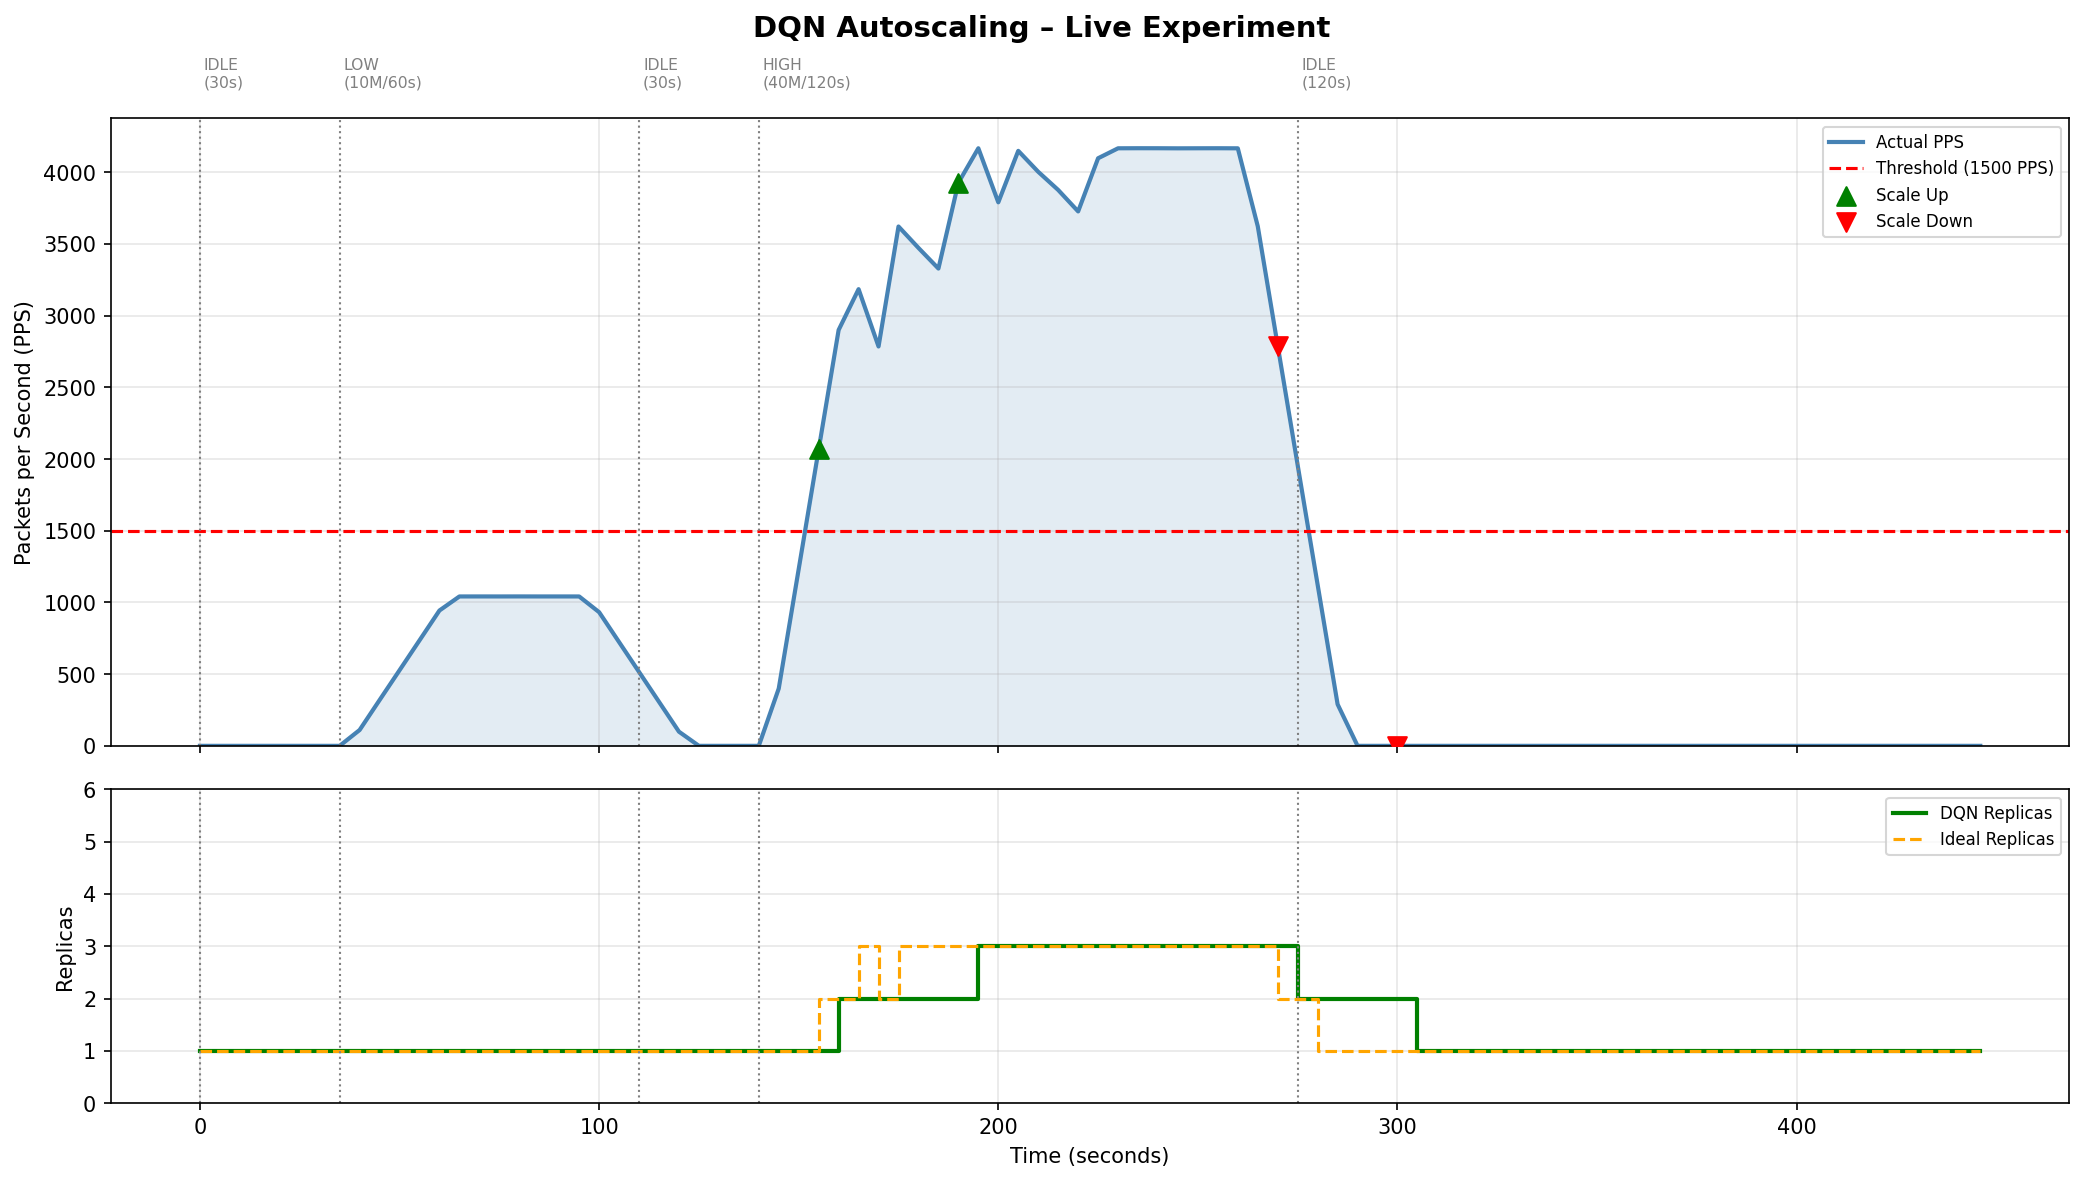
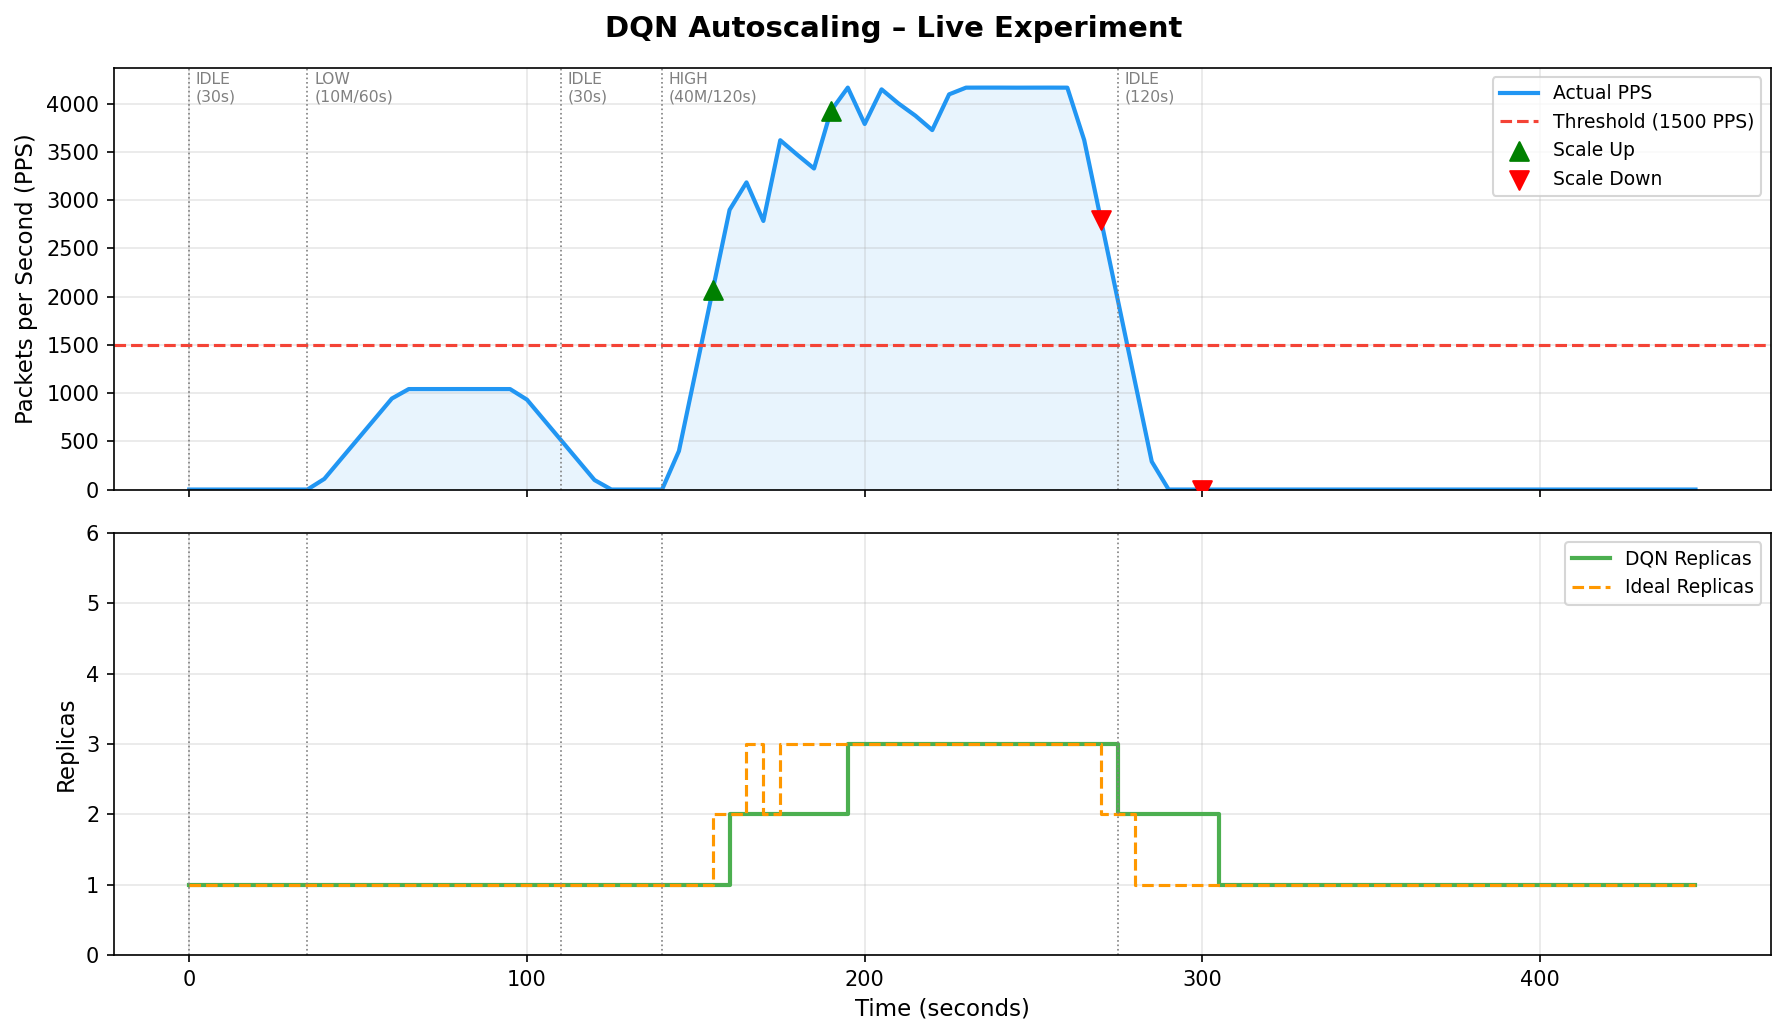
Update project files

diff --git a/scripts/plots/combined_response_time_plot.py b/scripts/plots/combined_response_time_plot.py
@@ -1,0 +1,136 @@
+#!/usr/bin/env python3
+"""
+Combined Estimated Response Time — Autoscaling Comparison
+Plots HPA, ARIMA, DQN actual response time vs No Autoscaling baseline (1 pod fixed)
+using M/M/c queuing model.
+"""
+
+import pandas as pd
+import matplotlib.pyplot as plt
+import matplotlib.ticker as ticker
+import glob
+import math
+import os
+
+# ── Config ────────────────────────────────────────────────────────────────────
+MU        = 1500
+MAX_RT_MS = 50.0
+BASE_RT   = (1 / MU) * 1000
+
+# ── Phase lines (HPA as reference) ───────────────────────────────────────────
+PHASES = [
+    (0,   "IDLE\n(30s)"),
+    (30,  "LOW\n(10M/60s)"),
+    (90,  "IDLE\n(30s)"),
+    (120, "HIGH\n(40M/120s)"),
+    (240, "IDLE\n(120s)"),
+]
+
+# ── Erlang-C ──────────────────────────────────────────────────────────────────
+def erlang_c(c, lam, mu):
+    rho = lam / (c * mu)
+    if rho >= 1.0:
+        return 1.0
+    a = lam / mu
+    num = (a ** c) / math.factorial(c) / (1 - rho)
+    denom = sum((a ** k) / math.factorial(k) for k in range(c)) + num
+    return num / denom
+
+def response_time_ms(lam, c, mu=MU):
+    if lam <= 0:
+        return BASE_RT
+    rho = lam / (c * mu)
+    if rho >= 1.0:
+        return MAX_RT_MS
+    ec = erlang_c(c, lam, mu)
+    w_s = (1.0 / mu) + ec / (c * mu - lam)
+    return min(w_s * 1000, MAX_RT_MS)
+
+# ── Loaders ───────────────────────────────────────────────────────────────────
+def find_latest_folder(pattern, filename):
+    folders = sorted(glob.glob(pattern), reverse=True)
+    for f in folders:
+        if os.path.isfile(f"{f}/{filename}"):
+            return f
+    raise FileNotFoundError(f"No folder matching '{pattern}' contains '{filename}'")
+
+def load_hpa():
+    f = find_latest_folder("results/*-hpa-experiment", "watch.csv")
+    print(f"  [HPA] {f}")
+    df = pd.read_csv(f"{f}/watch.csv", parse_dates=["ts_iso"])
+    df = df.rename(columns={"pps_prom": "pps_actual", "hpa_replicas": "current_replicas"})
+    df["current_replicas"] = df["current_replicas"].clip(lower=1)
+    return df.sort_values("ts_iso").reset_index(drop=True)
+
+def load_arima():
+    f = find_latest_folder("results/*-arima-experiment", "arima_live.csv")
+    print(f"  [ARIMA] {f}")
+    df = pd.read_csv(f"{f}/arima_live.csv", parse_dates=["ts_iso"])
+    df["current_replicas"] = df["current_replicas"].clip(lower=1)
+    return df.sort_values("ts_iso").reset_index(drop=True)
+
+def load_dqn():
+    folders = sorted(glob.glob("results/*-dqn-experiment"), reverse=True)
+    for f in folders:
+        if os.path.isfile(f"{f}/dqn_live.csv"):
+            print(f"  [DQN] {f}")
+            df = pd.read_csv(f"{f}/dqn_live.csv", parse_dates=["ts_iso"])
+            df["current_replicas"] = df["current_replicas"].clip(lower=1)
+            return df.sort_values("ts_iso").reset_index(drop=True)
+    fallback = "manifests/autoscaling/dqn/results/dqn_live_experiment.csv"
+    print(f"  [DQN] fallback: {fallback}")
+    df = pd.read_csv(fallback, parse_dates=["ts_iso"])
+    df["current_replicas"] = df["current_replicas"].clip(lower=1)
+    return df.sort_values("ts_iso").reset_index(drop=True)
+
+# ── Compute elapsed + response time ──────────────────────────────────────────
+def add_elapsed_and_rt(df, pps_col="pps_actual"):
+    df = df.copy()
+    df["elapsed"] = (df["ts_iso"] - df["ts_iso"].iloc[0]).dt.total_seconds()
+    df["rt"] = df.apply(lambda row: response_time_ms(row[pps_col], int(row["current_replicas"])), axis=1)
+    df["rt_no_autoscale"] = df[pps_col].apply(lambda lam: response_time_ms(lam, 1))
+    return df
+
+# ── Main ──────────────────────────────────────────────────────────────────────
+if __name__ == "__main__":
+    print("Loading data...")
+    hpa_df   = add_elapsed_and_rt(load_hpa())
+    arima_df = add_elapsed_and_rt(load_arima())
+    dqn_df   = add_elapsed_and_rt(load_dqn())
+
+    fig, ax = plt.subplots(figsize=(12, 5))
+    fig.suptitle("Estimated Response Time — Autoscaling Comparison",
+                 fontsize=14, fontweight="bold")
+
+    # No autoscaling baseline (from HPA data, fixed 1 pod)
+    ax.plot(hpa_df["elapsed"], hpa_df["rt_no_autoscale"],
+            color="#F44336", linewidth=2, linestyle="--", label="No Autoscaling (1 pod)")
+
+    # Each algorithm's actual response time
+    ax.plot(hpa_df["elapsed"],   hpa_df["rt"],
+            color="#2196F3", linewidth=2, linestyle="-", label="HPA")
+    ax.plot(arima_df["elapsed"], arima_df["rt"],
+            color="#FF9800", linewidth=2, linestyle="-", label="ARIMA")
+    ax.plot(dqn_df["elapsed"],   dqn_df["rt"],
+            color="#4CAF50", linewidth=2, linestyle="-", label="DQN")
+
+    # Phase annotations
+    for x, label in PHASES:
+        ax.axvline(x, color="gray", linewidth=0.8, linestyle=":")
+        ax.text(x + 2, (MAX_RT_MS + 5) * 0.92, label,
+                fontsize=7.5, color="gray", va="top")
+
+    # Saturation reference line
+    ax.axhline(y=MAX_RT_MS, color="red", linewidth=0.8, linestyle=":", alpha=0.4)
+
+    ax.set_xlabel("Time (seconds)", fontsize=11)
+    ax.set_ylabel("Estimated Response Time (ms)", fontsize=11)
+    ax.set_ylim(0, MAX_RT_MS + 5)
+    ax.yaxis.set_major_locator(ticker.MultipleLocator(5))
+    ax.legend(loc="upper right", fontsize=10)
+    ax.grid(True, alpha=0.3)
+
+    os.makedirs("results", exist_ok=True)
+    plt.tight_layout()
+    plt.savefig("results/combined_response_time.png", dpi=150, bbox_inches="tight")
+    print("Saved: results/combined_response_time.png")

diff --git a/scripts/plots/rt_vs_request_rate_plot.py b/scripts/plots/rt_vs_request_rate_plot.py
@@ -1,0 +1,115 @@
+#!/usr/bin/env python3
+"""
+Estimated Response Time vs Request Rate (PPS)
+- X-axis: Request Rate (PPS)
+- Y-axis: Estimated Response Time (ms)
+- Lines: No Autoscaling, HPA, ARIMA, DQN
+- Based on M/M/c queuing model with integer replica step functions
+  matching each algorithm's real scaling behaviour from experiments
+"""
+
+import numpy as np
+import matplotlib.pyplot as plt
+import matplotlib.ticker as ticker
+import math
+import os
+
+# ── Config ────────────────────────────────────────────────────────────────────
+MU        = 1500
+MAX_RT_MS = 50.0
+BASE_RT   = (1 / MU) * 1000
+
+# ── Erlang-C ──────────────────────────────────────────────────────────────────
+def erlang_c(c, lam, mu):
+    rho = lam / (c * mu)
+    if rho >= 1.0:
+        return 1.0
+    a = lam / mu
+    num = (a ** c) / math.factorial(c) / (1 - rho)
+    denom = sum((a ** k) / math.factorial(k) for k in range(c)) + num
+    return num / denom
+
+def response_time_ms(lam, c, mu=MU):
+    c = max(1, int(round(c)))
+    if lam <= 0:
+        return BASE_RT
+    rho = lam / (c * mu)
+    if rho >= 1.0:
+        return MAX_RT_MS
+    ec = erlang_c(c, lam, mu)
+    w_s = (1.0 / mu) + ec / (c * mu - lam)
+    return min(w_s * 1000, MAX_RT_MS)
+
+# ── Replica step functions ─────────────────────────────────────────────────────
+# Based on real experiment results:
+#   HPA   → reactive delay, over-provisioned to 5 pods
+#   ARIMA → predicts early (~300 PPS before threshold), max 4 pods
+#   DQN   → scales precisely at threshold, max 3 pods (no overshoot)
+
+def replicas_no_autoscale(pps): return 1
+
+def replicas_hpa(pps):
+    if pps < 1800:   return 1
+    elif pps < 3300: return 2
+    elif pps < 4300: return 3
+    elif pps < 5500: return 4
+    else:            return 5
+
+def replicas_arima(pps):
+    if pps < 1200:   return 1
+    elif pps < 2700: return 2
+    elif pps < 4000: return 3
+    else:            return 4
+
+def replicas_dqn(pps):
+    if pps < 1500:   return 1
+    elif pps < 3000: return 2
+    else:            return 3
+
+# ── Sweep PPS range ───────────────────────────────────────────────────────────
+pps_range = np.linspace(0, 4400, 4000)
+
+rt_no_autoscale = np.array([response_time_ms(p, replicas_no_autoscale(p)) for p in pps_range])
+rt_hpa          = np.array([response_time_ms(p, replicas_hpa(p))          for p in pps_range])
+rt_arima        = np.array([response_time_ms(p, replicas_arima(p))        for p in pps_range])
+rt_dqn          = np.array([response_time_ms(p, replicas_dqn(p))          for p in pps_range])
+
+# ── Plot ──────────────────────────────────────────────────────────────────────
+fig, ax = plt.subplots(figsize=(10, 5))
+fig.suptitle("Estimated Response Time vs Request Rate",
+             fontsize=14, fontweight="bold")
+
+ax.plot(pps_range, rt_no_autoscale,
+        color="#F44336", linewidth=2.5, linestyle="--",
+        label="No Autoscaling (1 pod)")
+ax.plot(pps_range, rt_hpa,
+        color="#2196F3", linewidth=2.5, linestyle="-",
+        label="HPA")
+ax.plot(pps_range, rt_arima,
+        color="#FF9800", linewidth=2.5, linestyle="-",
+        label="ARIMA")
+ax.plot(pps_range, rt_dqn,
+        color="#4CAF50", linewidth=2.5, linestyle="-",
+        label="DQN")
+
+ax.axvline(x=1500, color="gray", linewidth=1.0, linestyle=":",
+           label="Scaling threshold (1,500 PPS)")
+ax.axvspan(1500, 4000, alpha=0.04, color="gray")
+ax.text(2600, MAX_RT_MS * 0.92, "HIGH traffic region",
+        fontsize=8, color="gray", ha="center", va="top")
+
+ax.set_xlabel("Request Rate (PPS)", fontsize=11)
+ax.set_ylabel("Estimated Response Time (ms)", fontsize=11)
+ax.set_ylim(0, MAX_RT_MS + 5)
+ax.set_xlim(0, 4400)
+ax.yaxis.set_major_locator(ticker.MultipleLocator(5))
+ax.xaxis.set_major_locator(ticker.MultipleLocator(500))
+ax.legend(loc="upper left", fontsize=10)
+ax.grid(True, alpha=0.3)
+ax.axhline(y=MAX_RT_MS, color="#F44336", linewidth=0.7, linestyle=":", alpha=0.4)
+
+os.makedirs("results", exist_ok=True)
+out = "results/rt_vs_request_rate.png"
+plt.tight_layout()
+plt.savefig(out, dpi=150, bbox_inches="tight")
+print(f"Saved: {out}")
